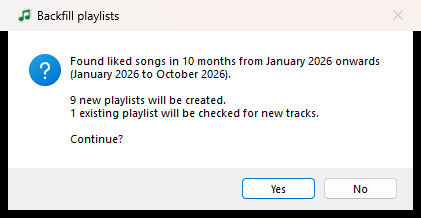
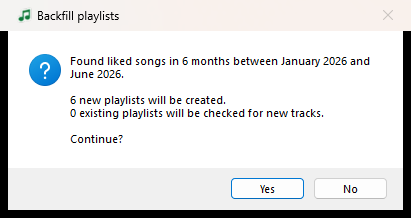
docs: document backfill range and license; refresh screenshots

diff --git a/tools/screenshots.py b/tools/screenshots.py
@@ -202,10 +202,13 @@ def main() -> None:
                 time.sleep(0.1)
 
         threading.Thread(target=answer_dialog, daemon=True).start()
-        # show the "From <month> <year>" option: January of the current year
-        app.bf_mode.set("from")
+        # show the "Range" option: January to June of the current year
+        year = str(datetime.now().year)
+        app.bf_mode.set("range")
         app.bf_month_var.set("January")
-        app.bf_year_var.set(str(datetime.now().year))
+        app.bf_year_var.set(year)
+        app.bf_end_month_var.set("June")
+        app.bf_end_year_var.set(year)
         app._update_backfill_controls()
         app.do_backfill()
         wait_idle(step_backfill_shot, 1500)

diff --git a/docs/USER_GUIDE.md b/docs/USER_GUIDE.md
@@ -78,7 +78,7 @@ From top to bottom:
 | **Make new playlists public** | Off by default, so new playlists are private. Only affects playlists the app *creates*. Existing playlists are never changed. |
 | **Preview** | Shows which songs would be added, without changing anything. |
 | **Create / Update Playlist** | Creates the playlist for the selected month, or adds any missing songs to it. |
-| **Backfill row** | Does the same for many months: **All months**, or **From** a chosen month and year up to now. See [section 7](#7-backfill-many-months-at-once). |
+| **Backfill panel** | Does the same for many months: **All months**, **From a month onwards**, or a **Range** of months. See [section 7](#7-backfill-many-months-at-once). |
 | **Cancel** | Stops a running backfill or login. |
 | **Auto-sync row** | Runs the app automatically on a schedule. See [section 8](#8-turn-on-automatic-sync). |
 | **Progress bar** | Busy indicator, or "N / M months" during a backfill. |
@@ -121,16 +121,24 @@ It's always safe to click again:
 
 ## 7. Backfill many months at once
 
-The **Backfill** row creates or updates a playlist for many months in one go. Choose
-how far back to go:
+The **Backfill** panel creates or updates a playlist for many months in one go. Pick
+which months:
 
-- **All months**: every month in your Liked Songs history. The button reads
-  **Backfill all months**.
-- **From [Month] [Year]**: only that month and every month after it, up to now. Pick
-  a month and year, and the button changes to e.g. **Backfill from January 2026**.
-  This is quicker for big libraries, because the app stops reading your Liked Songs
-  once it reaches that month. It's handy if you already have older monthly playlists,
-  or only want recent ones. Months in the future aren't allowed.
+| Option | Months covered | Button reads e.g. |
+|--------|----------------|-------------------|
+| **All months** | Every month in your Liked Songs history. | **Backfill all months** |
+| **From a month onwards** | The **Start** month and every month after it, up to now. | **Backfill from January 2026** |
+| **Range** | Only the **Start** to **End** months, inclusive. | **Backfill March 2025 to June 2025** |
+
+- The **Start** and **End** pickers only become active when the option you chose
+  uses them.
+- To redo a **single month**, choose **Range** and set Start and End to the same
+  month. The button then reads e.g. **Backfill May 2025**.
+- **From** and **Range** are quicker for big libraries, because the app stops reading
+  your Liked Songs once it reaches the start month. They're handy if you already have
+  some monthly playlists, or only want a particular stretch of time.
+- The start can't be in the future, and the end can't be before the start. The app
+  tells you if either happens.
 
 Click the button. The app reads your Liked Songs, then asks for confirmation:
 

diff --git a/README.md b/README.md
@@ -8,6 +8,7 @@
 
 **[Download the latest release](https://github.com/widowshyper/spotify-monthly-playlists/releases/latest)**
 · **[User guide (with screenshots)](docs/USER_GUIDE.md)**
+· **[MIT License](LICENSE)**
 
 ![Main window](docs/screenshots/main.png)
 
@@ -22,8 +23,8 @@ them, oldest first.
   name already exists (and you own it), only missing tracks are added. Playlists are
   never duplicated and tracks are never removed.
 - **Backfill** creates or updates a playlist for every month that has liked songs.
-  Choose **all months**, or **from** a chosen month and year onwards. It asks for
-  confirmation first and shows a progress bar.
+  Choose **all months**, **from** a chosen month onwards, or a **range** (start month
+  to end month). It asks for confirmation first and shows a progress bar.
 - **Auto-sync every X hours, days, weeks or months.** Set it once in the app and it
   keeps running via Windows Task Scheduler, even when the app is closed.
 - **`--auto` mode** runs headless for scheduled runs. It syncs last month and the current
@@ -272,3 +273,9 @@ Local files and entries with no item or URI are skipped.
 | *Network error* | Check your internet connection and retry. |
 | *Could not create the scheduled task* | Task Scheduler may be restricted on work-managed PCs. Try the manual Task Scheduler steps, or ask your IT admin. |
 | Scheduled run shows *not set up* | Open the app and click **Connect** once. Scheduled runs reuse that login. |
+
+## License
+
+[MIT](LICENSE) © 2026 widowshyper. You're free to use, modify and share this code,
+including commercially, as long as you keep the copyright and license notice. It's
+provided "as is", without warranty.
